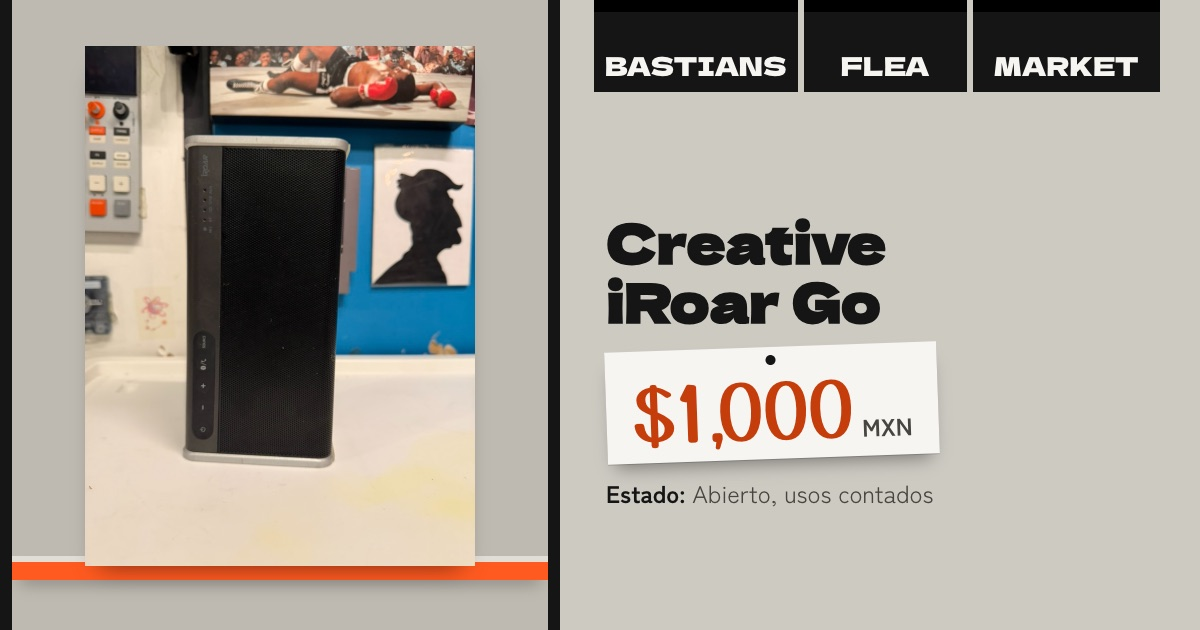
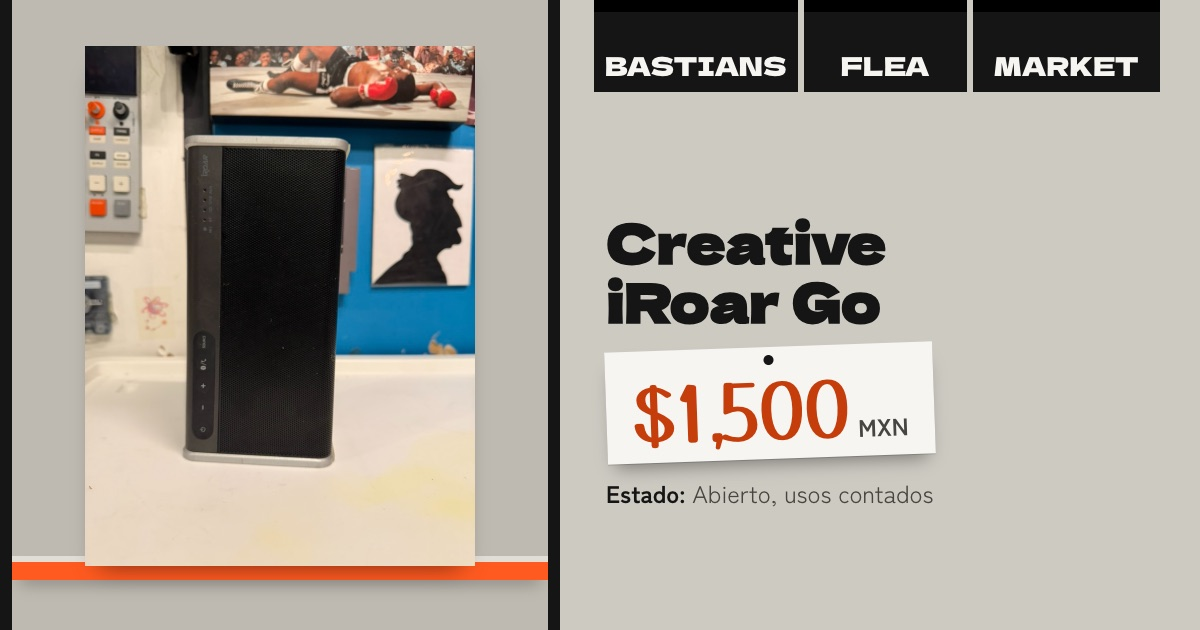
iRoar Go a 1500

Changed region(s): [[0.5858, 0.5429, 0.8017, 0.6937]]

diff --git a/site/p/creative-iroar-go/index.html b/site/p/creative-iroar-go/index.html
@@ -3,19 +3,19 @@
 <head>
   <meta charset="utf-8">
   <meta name="viewport" content="width=device-width, initial-scale=1">
-  <title>Creative iRoar Go · $1,000 MXN — Bastians Flea Market</title>
+  <title>Creative iRoar Go · $1,500 MXN — Bastians Flea Market</title>
   <meta name="description" content="Estado: Abierto, usos contados. Cabe en la mochila y suena como bocina grande: 5 drivers con subwoofer, resistente a salpicaduras y 12 horas de batería.">
   <meta property="og:type" content="product">
   <meta property="og:locale" content="es_MX">
   <meta property="og:site_name" content="Bastians Flea Market">
-  <meta property="og:title" content="Creative iRoar Go · $1,000 MXN">
+  <meta property="og:title" content="Creative iRoar Go · $1,500 MXN">
   <meta property="og:description" content="Estado: Abierto, usos contados. Cabe en la mochila y suena como bocina grande: 5 drivers con subwoofer, resistente a salpicaduras y 12 horas de batería.">
   <meta property="og:url" content="https://bastianfleamarket.netlify.app/p/creative-iroar-go/">
   <meta property="og:image" content="https://bastianfleamarket.netlify.app/share/creative-iroar-go.jpg">
   <meta property="og:image:width" content="1200">
   <meta property="og:image:height" content="630">
   <meta property="og:image:alt" content="Creative Labs iRoar Go">
-  <meta property="product:price:amount" content="1000">
+  <meta property="product:price:amount" content="1500">
   <meta property="product:price:currency" content="MXN">
   <meta name="twitter:card" content="summary_large_image">
   <meta name="robots" content="noindex, follow">

diff --git a/site/data.js b/site/data.js
@@ -1,6 +1,6 @@
 // Generado por build.py — no editar a mano.
 window.SHOP = {
- "updated": "2026-11-21",
+ "updated": "2026-11-23",
  "shelves": [
   {
    "id": "tocar",
@@ -615,7 +615,7 @@ window.SHOP = {
    "brand": "Creative",
    "model": "iRoar Go",
    "name": "Creative Labs iRoar Go",
-   "price": 1000,
+   "price": 1500,
    "condition": "Abierto, usos contados",
    "sold": false,
    "specs": [
